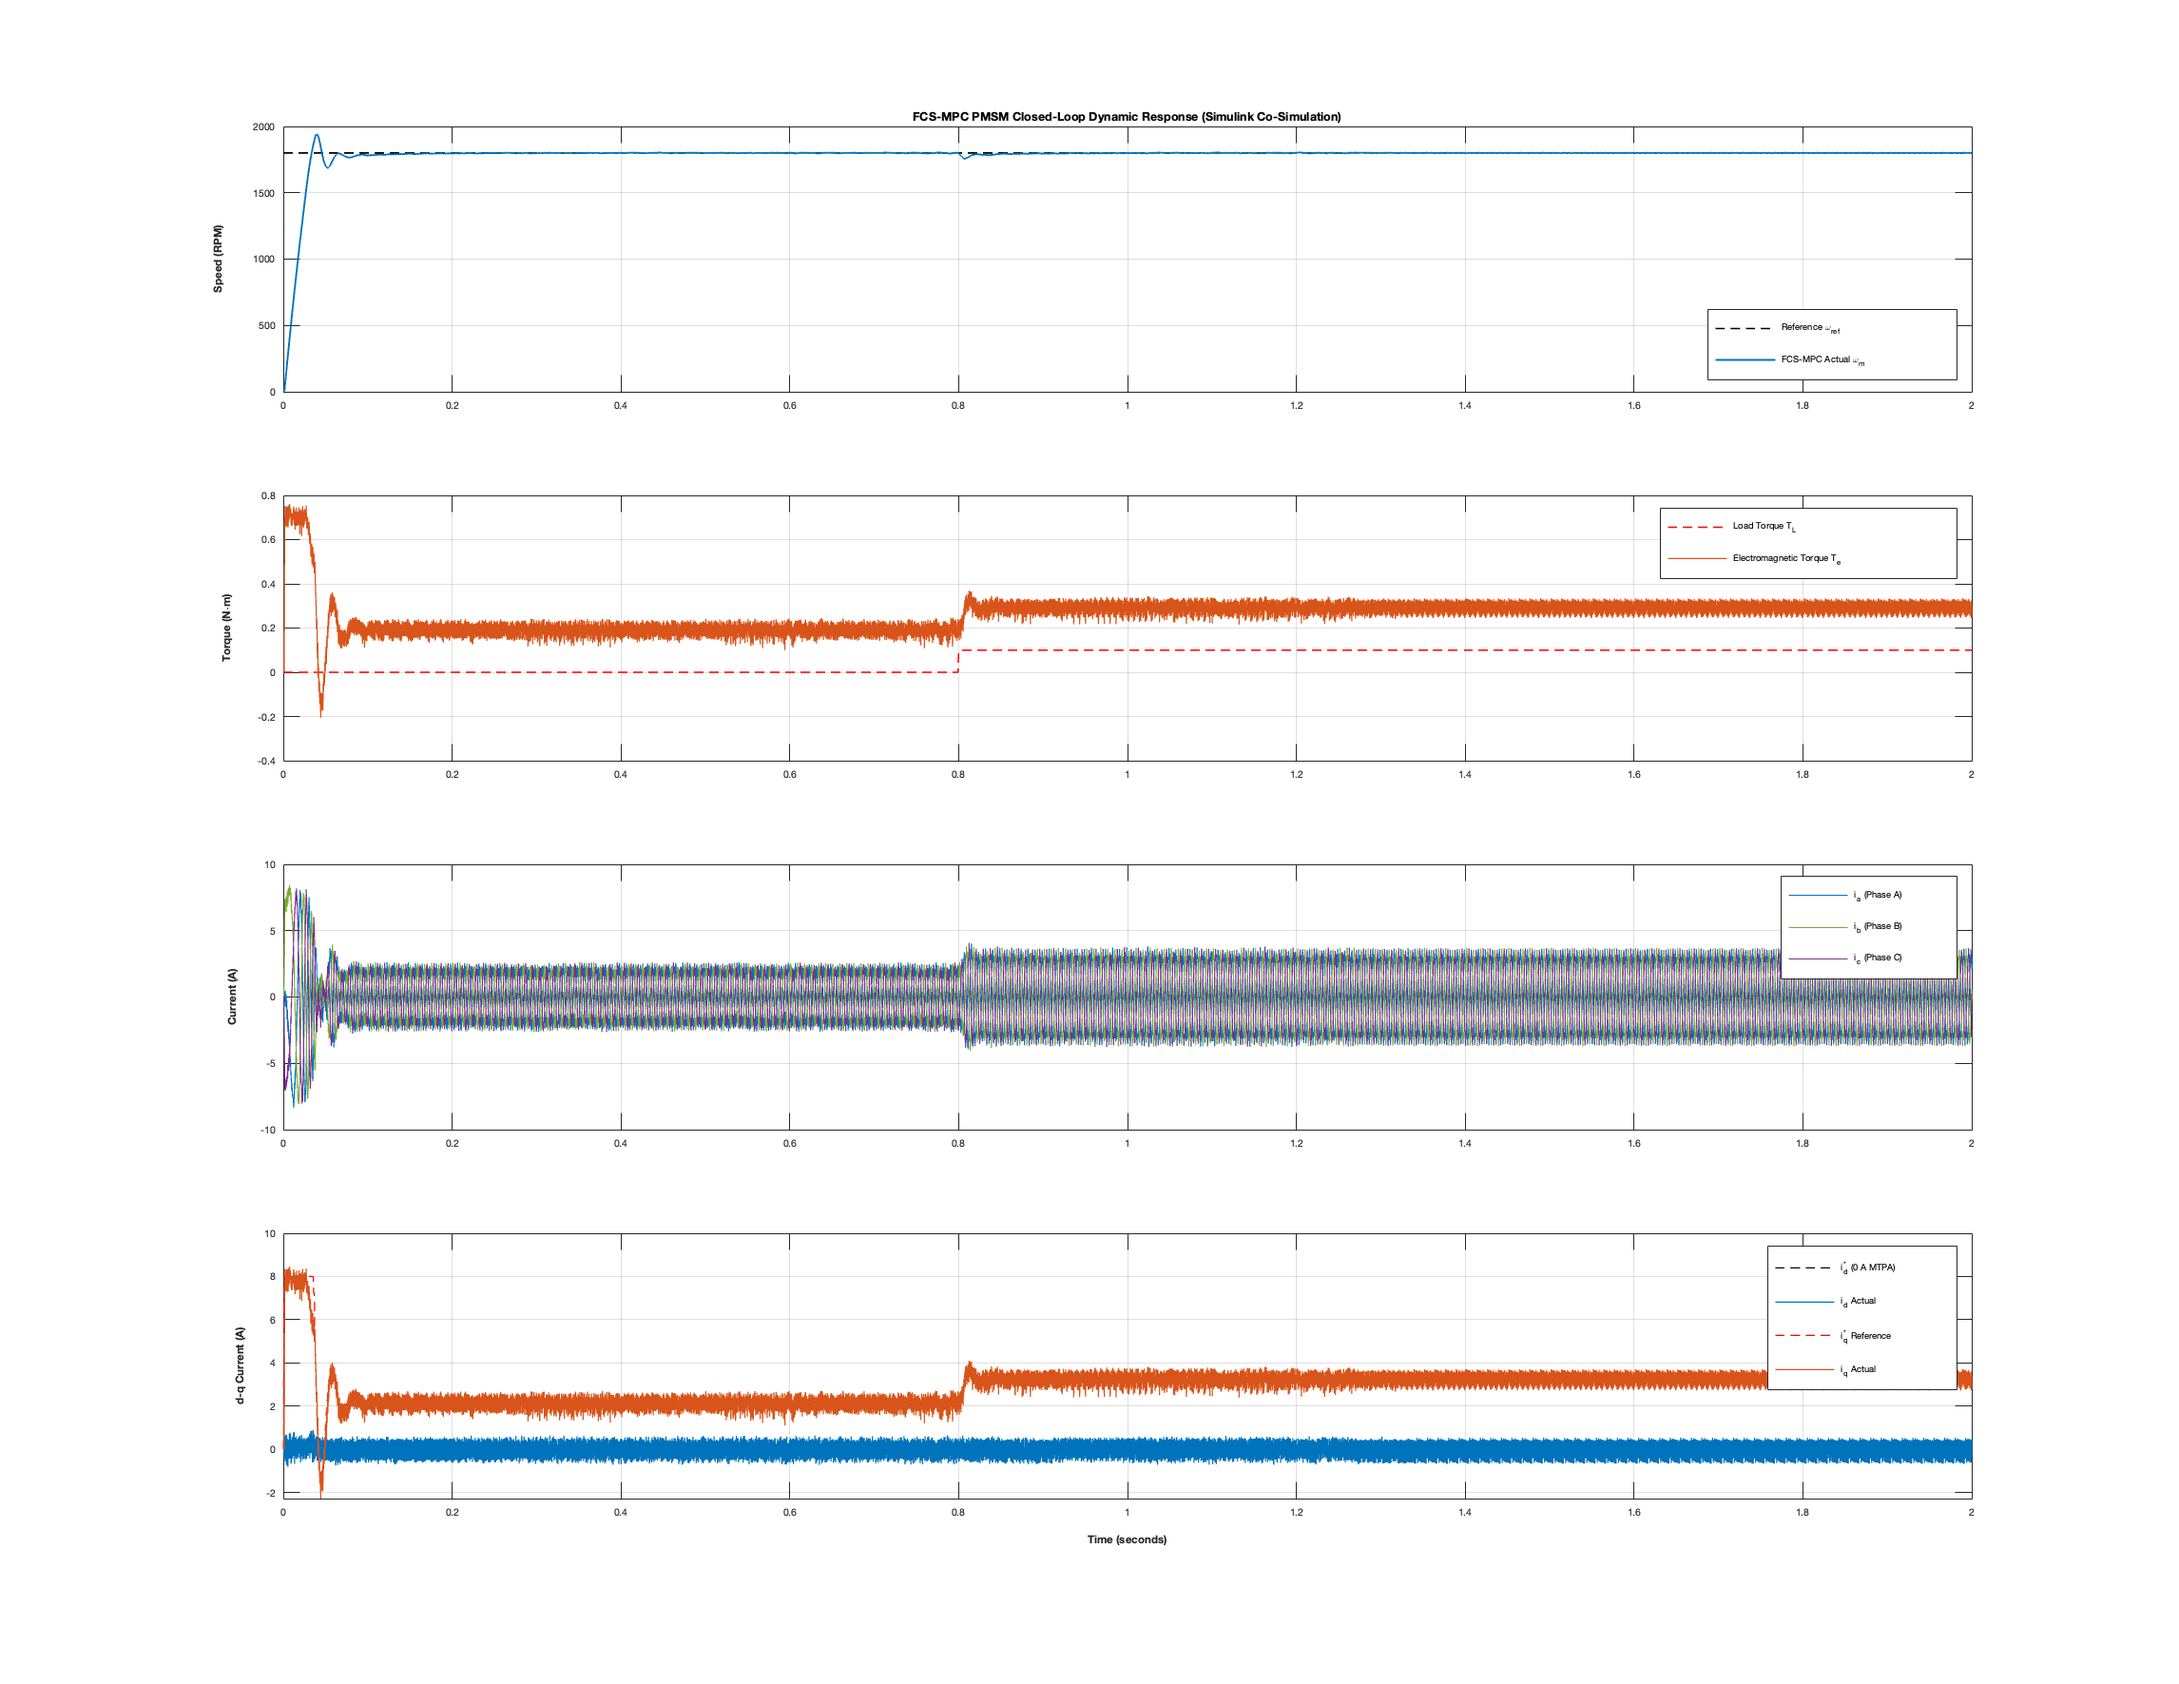
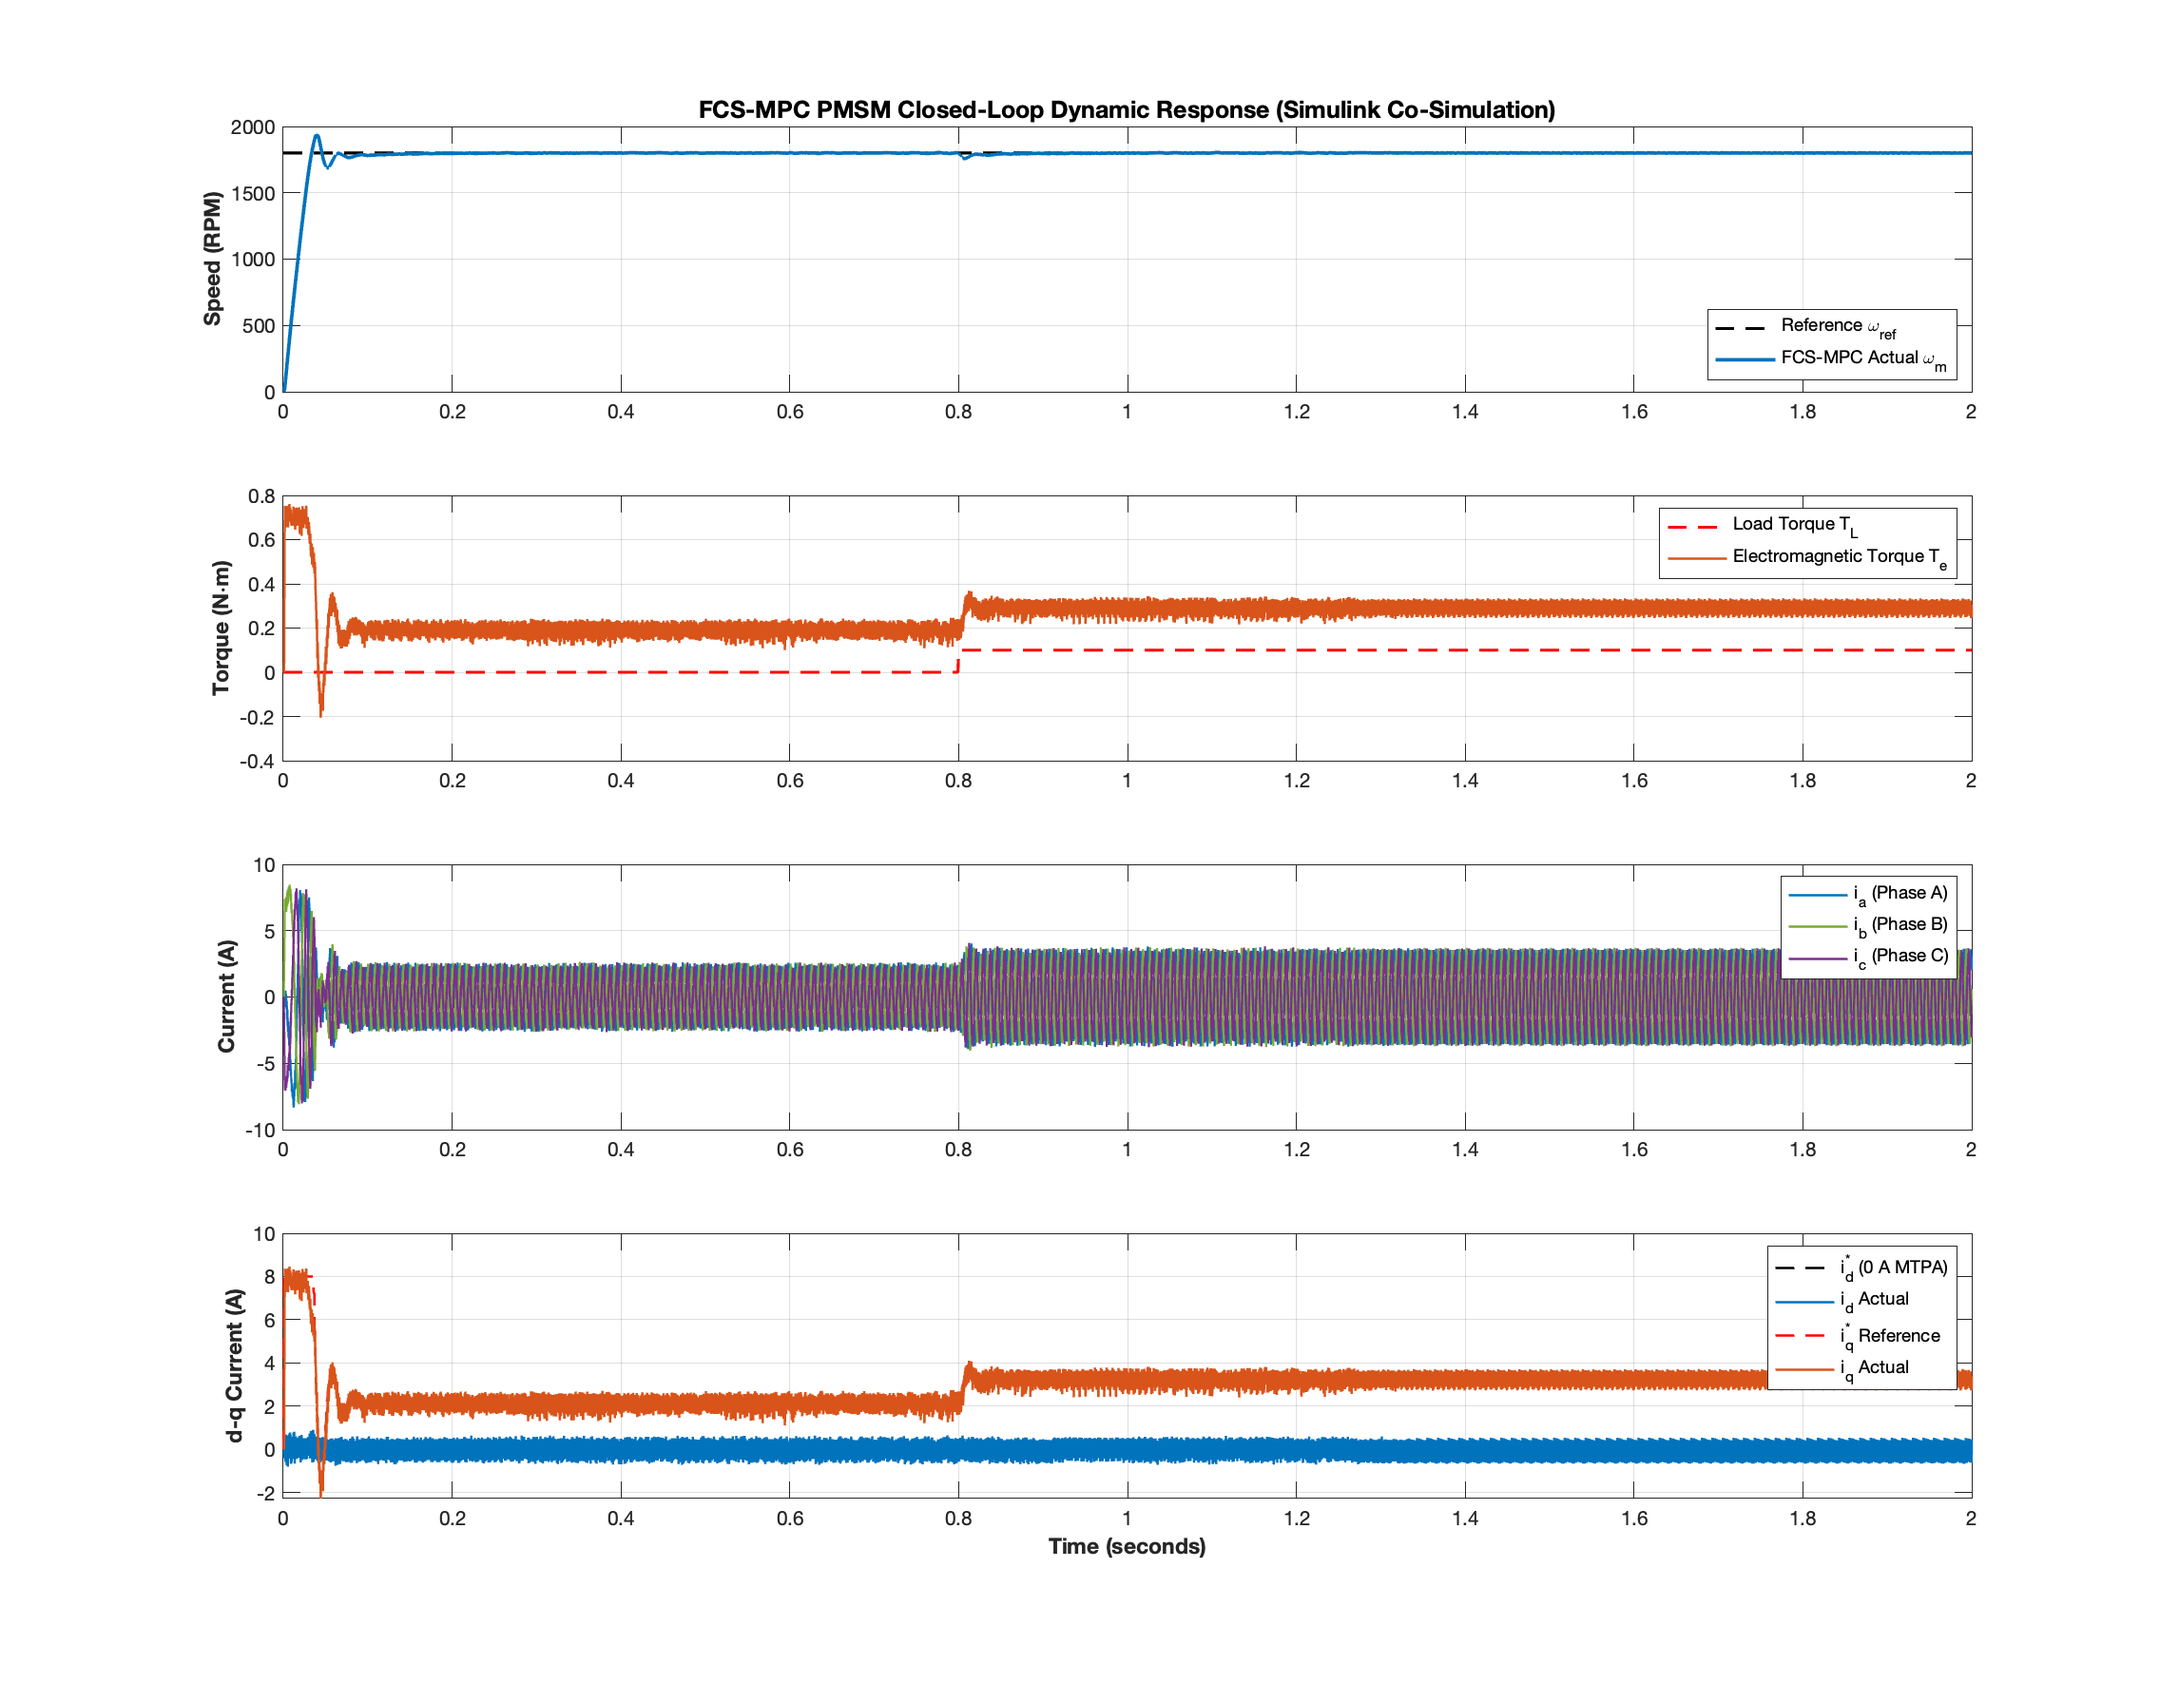
chore(github): make repository GitHub-ready with CI workflow, CITATION.cff, Apple Silicon MEX binaries, and verified pytest suite

diff --git a/simulation/test_mpc_scenarios.py b/simulation/test_mpc_scenarios.py
@@ -1,0 +1,50 @@
+"""
+Automated Pytest Suite for FCS-MPC PMSM Drive
+Author: Arpan Kailash Gupta (Roll No: 241030009), VJTI Mumbai
+"""
+
+import numpy as np
+import pytest
+from simulation.harness.mpc_runner import run_simulation
+
+def test_mpc_speed_acceleration():
+    """Verify that FCS-MPC accelerates the motor toward reference speed."""
+    data = run_simulation(
+        "test_accel", total_time=0.15,
+        speed_profile=lambda t: 1500.0,
+        load_profile=lambda t: 0.0
+    )
+    final_speed = data['speed'][-1]
+    assert final_speed > 300.0, f"Expected speed > 300 RPM, got {final_speed:.1f}"
+
+def test_mpc_switching_constraint():
+    """Verify that average switching frequency is constrained below carrier frequency (20 kHz)."""
+    data = run_simulation(
+        "test_sw", total_time=0.20,
+        speed_profile=lambda t: 1500.0,
+        load_profile=lambda t: 0.05
+    )
+    # Check average switching frequency reported by telemetry
+    f_sw_avg = np.mean(data['f_sw'][int(len(data['time'])*0.5):])
+    assert f_sw_avg < 20000.0, f"Average switching frequency {f_sw_avg:.1f} Hz exceeds 20 kHz"
+    assert f_sw_avg > 500.0, f"Average switching frequency {f_sw_avg:.1f} Hz unexpectedly low"
+
+def test_mpc_torque_delivery():
+    """Verify positive torque generation under positive speed command and load."""
+    data = run_simulation(
+        "test_torque", total_time=0.20,
+        speed_profile=lambda t: 1500.0,
+        load_profile=lambda t: 0.10
+    )
+    mean_torque = np.mean(data['torque'][int(len(data['time'])*0.5):])
+    assert mean_torque > 0.05, f"Expected mean torque > 0.05 N*m, got {mean_torque:.3f}"
+
+def test_inverter_efficiency_bounds():
+    """Verify inverter electrical conversion efficiency exceeds 95% under normal operation."""
+    data = run_simulation(
+        "test_eff", total_time=0.20,
+        speed_profile=lambda t: 1500.0,
+        load_profile=lambda t: 0.10
+    )
+    mean_eff = np.mean(data['efficiency'][int(len(data['time'])*0.5):])
+    assert mean_eff > 95.0, f"Expected inverter efficiency > 95%, got {mean_eff:.2f}%"

diff --git a/README.md b/README.md
@@ -1,5 +1,12 @@
 # Finite-Control-Set Model Predictive Control (FCS-MPC) with Multi-Objective Optimization for PMSM Power Electronics Inverter Drives
 
+[![CI Suite](https://github.com/arpan130781/pmsm-fcs-mpc-control/actions/workflows/ci.yml/badge.svg)](https://github.com/arpan130781/pmsm-fcs-mpc-control/actions)
+[![License: MIT](https://img.shields.io/badge/License-MIT-blue.svg)](LICENSE)
+[![C99](https://img.shields.io/badge/Language-C99%20%7C%20Python%203.9%2B-orange.svg)](#)
+[![MATLAB/Simulink](https://img.shields.io/badge/MATLAB%2FSimulink-R2022b%20--%20R2024a-red.svg)](simulink/)
+[![Tests](https://img.shields.io/badge/Simulink%20Tests-6%2F6%20Passed-brightgreen.svg)](#)
+[![Affiliation](https://img.shields.io/badge/Affiliation-VJTI%20Mumbai-blueviolet.svg)](#)
+
 ### Advanced Power Electronics & Embedded Motor Drive Suite | C | Python SIL | MATLAB/Simulink | ESP32 Real-Time Firmware
 **Department of Electrical Engineering, Veermata Jijabai Technological Institute (VJTI), Mumbai**  
 **Author:** Arpan Kailash Gupta  
